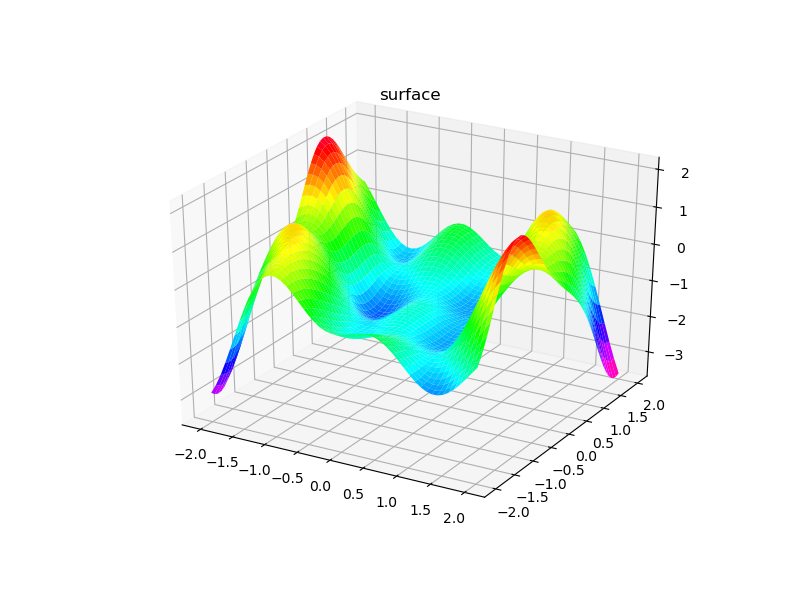
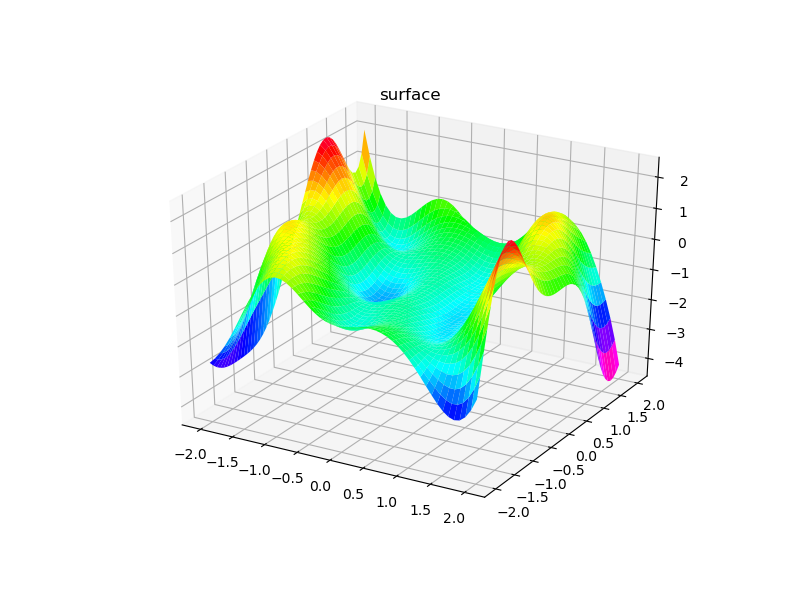
es 3

diff --git a/3/run_3_MSG.py b/3/run_3_MSG.py
@@ -1,9 +1,9 @@
 from functions_3_MSG import *
 
 df = pd.read_csv(r'../OMML2020_Assignment_1_Dataset.csv')
-params = {'N': 53, 'rho': 1e-05, 'sigma': 0.8999999999999999}
+params = {'N': 29, 'rho': 1e-05, 'sigma': 0.8}
 model = RBF(df=df, **params)
-model.two_block(num_iter=500)
+model.two_block(num_iter=20)
 loss = get_loss(model, loss_type='all')
 
 print('BEST PARAMS:','\n\nN:', model.N,
